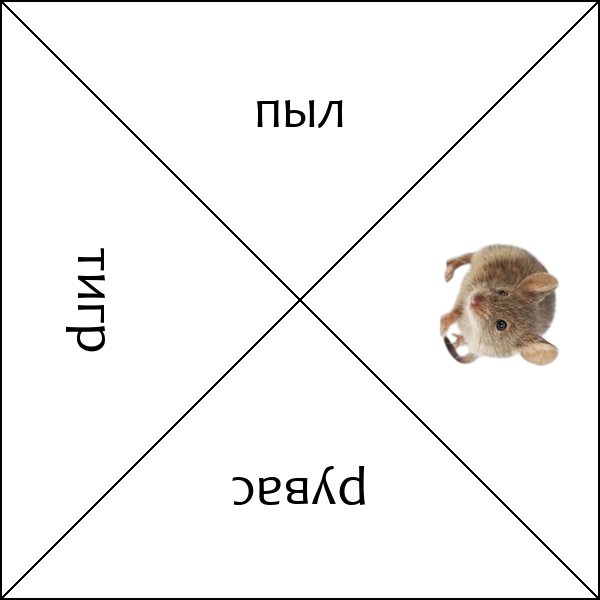
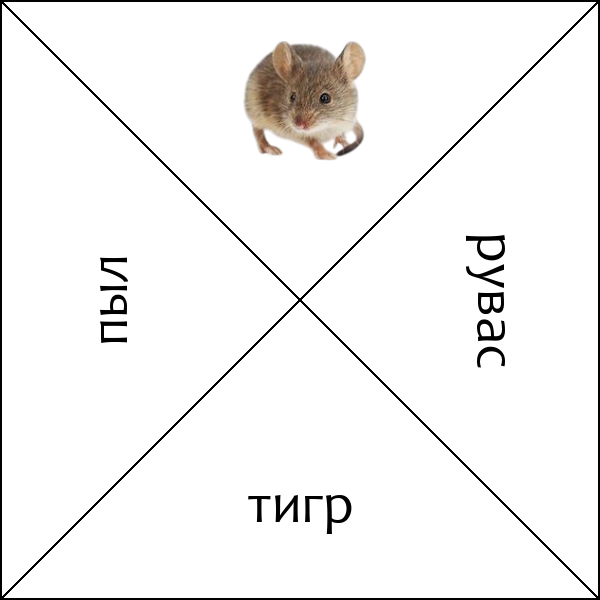
исправлен большой баг с поворотом

diff --git a/generate/generate_level.py b/generate/generate_level.py
@@ -176,7 +176,7 @@ def generate_3(img_width, img_height, image_direct, format, field_direct, final_
             if indexes_text[i][2] == 3:
                 y_coord = 500
             add_centered_text(background, text3, background.width // 2, y_coord, font)
-            background = background.rotate(-rotations[indexes_text[i][1]])
+            background = background.rotate(-rotations[indexes_text[i][2]])
         else:
             overlay1 = Image.open(DIR + f"{image_direct}/{counter_img}{format}")
             rotated1 = overlay1.rotate(rotations[indexes_images[i][0]])
